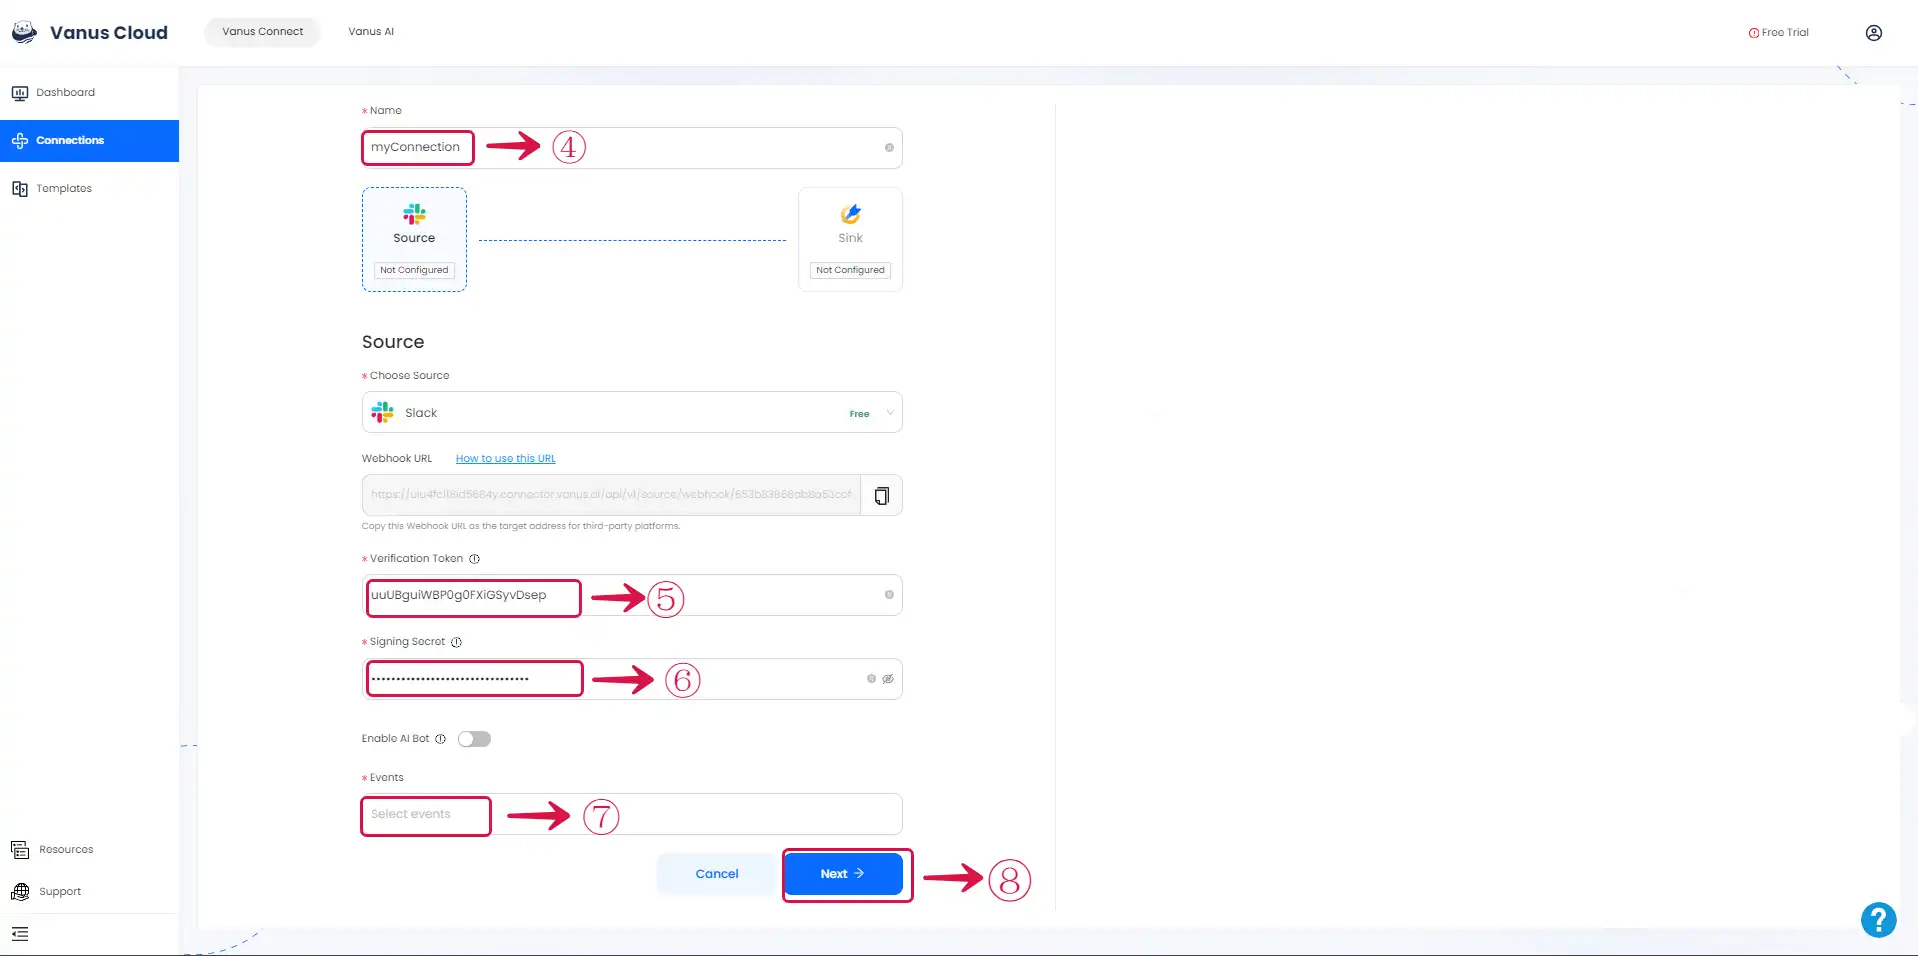
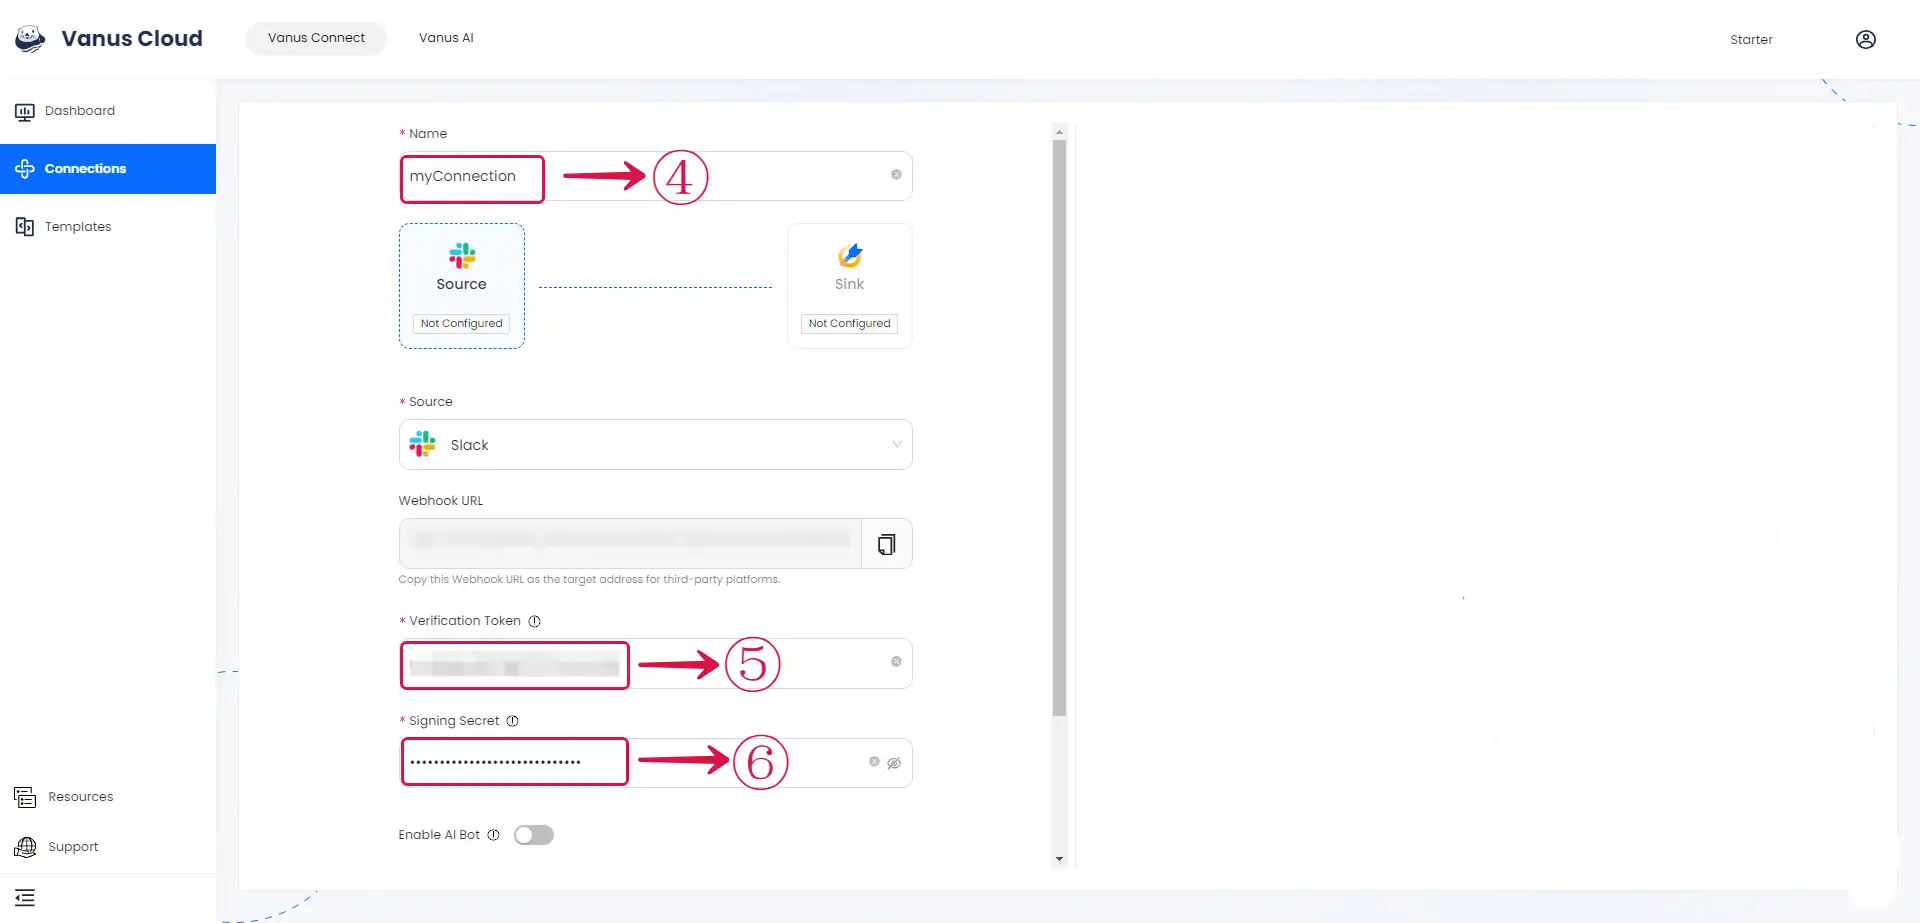
Docs: Slack Source Docs (#728)

diff --git a/content/vanus-connect/connector-guides/source/slack/setup.md b/content/vanus-connect/connector-guides/source/slack/setup.md
@@ -40,7 +40,7 @@ Before obtaining Slack events, you must have:
 
 ![slack_source_5.webp](./images/slack_source_5.webp) 
 
-3. Go to your Vanus Connection, Give the connection a **Name**④, paste the **Verification Token**⑤ and **Signing Secret**⑥ from Slack as configurations, select the **Events**⑦, and click **Next**⑧.
+3. Go to your Vanus Connection, Give the connection a **Name**④, paste the **Verification Token**⑤ and **Signing Secret**⑥ from Slack as configurations.
 
 ![slack_source_6.webp](./images/slack_source_6.webp) 
 
@@ -48,44 +48,46 @@ Before obtaining Slack events, you must have:
 
 ### Step 3: Configure Event Subscription
 
-1. Click on the **Connection Name**①.
+1. Click the **copy icon**① to copy the webhook URL, select the **Events**② you want to receive. 
 
-![slack_sheets_12.webp](./images/slack_sheets_12.webp)
+![slack_source_7.webp](./images/slack_source_7.webp) 
 
-2. Click the **copy icon**② to copy the webhook URL.
-
-![slack_sheets_13.webp](./images/slack_sheets_13.webp)
-
-3. Go back to your Slack App, and click on **Event Subscriptions**③ in the side menu.
+2. Go back to your Slack App, and click on **Event Subscriptions**③ in the side menu.
 
 ![slack_sheets_14.webp](./images/slack_sheets_14.webp)
 
-4. **Enable Events**④ by turning on the switch, and use the URL we've previously copied and paste it into **Request URL**⑤. You should see a green `Verified`, indicating our Source is verified by Slack.
+3. **Enable Events**④ by turning on the switch, and use the URL we've previously copied and paste it into **Request URL**⑤. You should see a green `Verified`, indicating our Source is verified by Slack.
 
 ![slack_sheets_15.webp](./images/slack_sheets_15.webp)
 
-5. Scroll down, click **Subscribe to bot events**⑥ and after, you will be able to click **Add Bot User Event**⑦.
+4. Scroll down, click **Subscribe to bot events**⑥ and after, you will be able to click **Add Bot User Event**⑦.
 
 ![slack_sheets_16.webp](./images/slack_sheets_16.webp)
 
-6. Select the event **message.channels**⑧.
+5. Select the event **message.channels**⑧.
 
 ![slack_sheets_17.webp](./images/slack_sheets_17.webp)
 
-7. Click on **Save Changes**⑨ to complete your configuration.
+6. Click on **Save Changes**⑨ to complete your configuration.
 
 ![slack_sheets_18.webp](./images/slack_sheets_18.webp)
 
-8. Go to **Install App**⑩ from the side menu and click **Install to Workspace**⑪.
+7. Go to **Install App**⑩ from the side menu and click **Install to Workspace**⑪.
 
 ![slack_sheets_19.webp](./images/slack_sheets_19.webp)
 
-9. Click on **Allow**⑫.
+8. Click on **Allow**⑫.
 
 ![slack_sheets_20.webp](./images/slack_sheets_20.webp)
 
-10. Go to your Slack workspace, invite the bot to the channel by clicking **Add to Channel**⑬ button.
+9. Go to your Slack workspace, invite the bot to the channel by clicking **Add to Channel**⑬ button.
 
 ![slack_sheets_22.webp](./images/slack_sheets_22.webp)
 
+10. Click **Next**⑭ to continue the configuration.
 
+![slack_source_8.webp](./images/slack_source_8.webp) 
+
+---
+
+Learn more about Vanus and Vanus Connect in our [**documentation**](https://docs.vanus.ai).

diff --git a/content/cloud-docs/source/slack/setup.md b/content/cloud-docs/source/slack/setup.md
@@ -11,7 +11,7 @@ hide_title: true
 
 **Perform the following steps to configure your Slack Source.**
 
-### Step 1: Create and Install an App in Slack
+### Step 1: Create an app in Slack
 
 1. Go to [Slack API](https://api.slack.com/apps), and click **Create New App**①.
 
@@ -35,10 +35,53 @@ hide_title: true
 
 ![slack_source_5.webp](./images/slack_source_5.webp) 
 
-3. Go to your Vanus Connection, Give the connection a **Name**④, paste the **Verification Token**⑤ and **Signing Secret**⑥ from Slack as configurations, select the **Events**⑦, and click **Next**⑧.
+3. Go to your Vanus Connection, Give the connection a **Name**④, paste the **Verification Token**⑤ and **Signing Secret**⑥ from Slack as configurations.
 
 ![slack_source_6.webp](./images/slack_source_6.webp) 
 
+---
+
+### Step 3: Configure Event Subscription
+
+1. Click the **copy icon**① to copy the webhook URL, select the **Events**② you want to receive. 
+
+![slack_source_7.webp](./images/slack_source_7.webp) 
+
+2. Go back to your Slack App, and click on **Event Subscriptions**③ in the side menu.
+
+![slack_sheets_14.webp](./images/slack_sheets_14.webp)
+
+3. **Enable Events**④ by turning on the switch, and use the URL we've previously copied and paste it into **Request URL**⑤. You should see a green `Verified`, indicating our Source is verified by Slack.
+
+![slack_sheets_15.webp](./images/slack_sheets_15.webp)
+
+4. Scroll down, click **Subscribe to bot events**⑥ and after, you will be able to click **Add Bot User Event**⑦.
+
+![slack_sheets_16.webp](./images/slack_sheets_16.webp)
+
+5. Select the event **message.channels**⑧.
+
+![slack_sheets_17.webp](./images/slack_sheets_17.webp)
+
+6. Click on **Save Changes**⑨ to complete your configuration.
+
+![slack_sheets_18.webp](./images/slack_sheets_18.webp)
+
+7. Go to **Install App**⑩ from the side menu and click **Install to Workspace**⑪.
+
+![slack_sheets_19.webp](./images/slack_sheets_19.webp)
+
+8. Click on **Allow**⑫.
+
+![slack_sheets_20.webp](./images/slack_sheets_20.webp)
+
+9. Go to your Slack workspace, invite the bot to the channel by clicking **Add to Channel**⑬ button.
+
+![slack_sheets_22.webp](./images/slack_sheets_22.webp)
+
+10. Click **Next**⑭ to continue the configuration.
+
+![slack_source_8.webp](./images/slack_source_8.webp)
 
 ---
 
